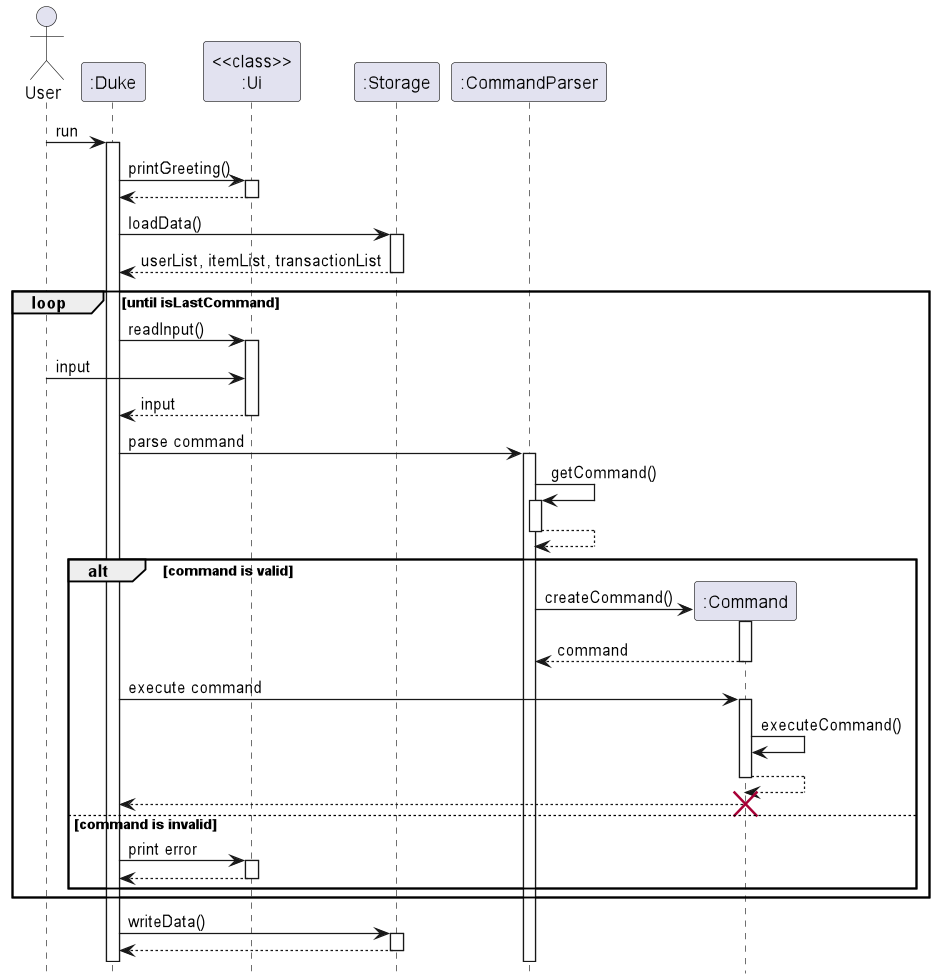
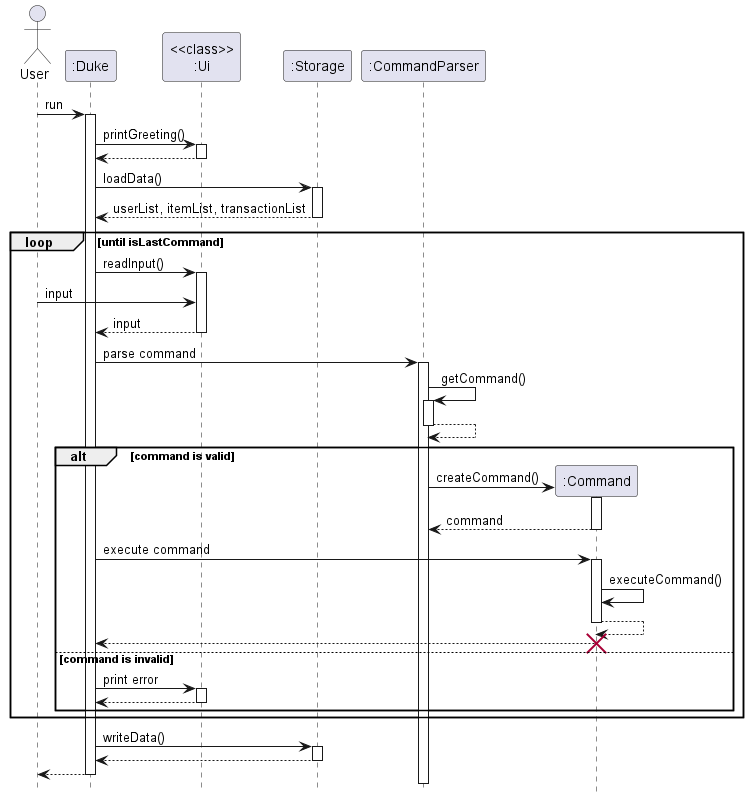
Update DG

diff --git a/docs/DeveloperGuide.md b/docs/DeveloperGuide.md
@@ -11,15 +11,20 @@
 ## Design  
 This sector describes the architecture design of Upcycle with its components, and UML diagrams are used to support.
 ### Duke 
+![DukeSequence](images/DukeSequence.png)
 ### User component
 ### Item component 
 ### Transaction component
+The Class diagram below show how Transaction-related classes interact with each other. `Transaction` object contains `transactionId`, `itemName`, `itemId`, `borrower`, `duration`, `createdAt`, `returnedAt` attributes. Among those, `transactionId` is created by `IdGenerator`'s static method and dates are parsed by `DateParser`, therefore, Transaction class depends on those two classes.
+Transactions are stored in `TransactionList`, which will be loaded and written on the file by `TransactionStorage` (inherits from `Storage`) whenever Upcycle runs or exits. All transaction-related commands operate mainly on a list of transaction (transactionList:TransactionList)
+
+![TransactionClassDiagram](images/TransactionClassDiagram.png)
 ### Ui component 
 ### Storage component 
 ### Command component
 
 ## Implementation
-{Describe the design and implementation of the product. Use UML diagrams and short code snippets where applicable.}
+This sector describe how features are implemented, where readers can get insight into the mechanisms of them with step-by-step descriptions and UML diagrams.
 
 ### User-related Features
 
